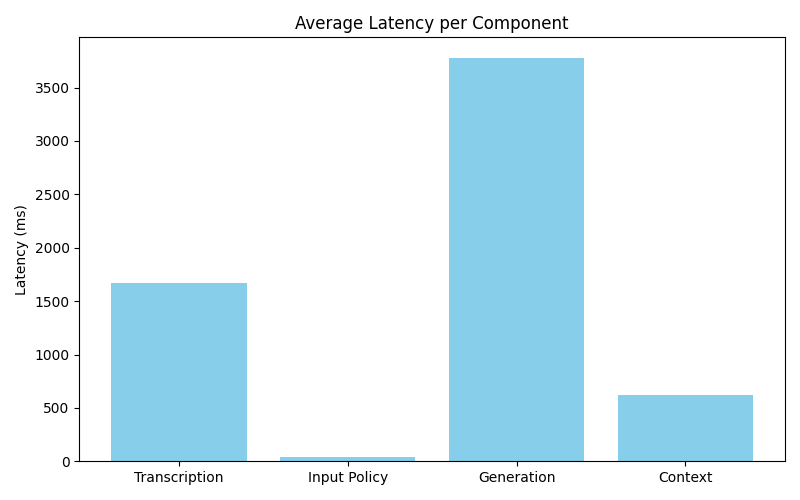
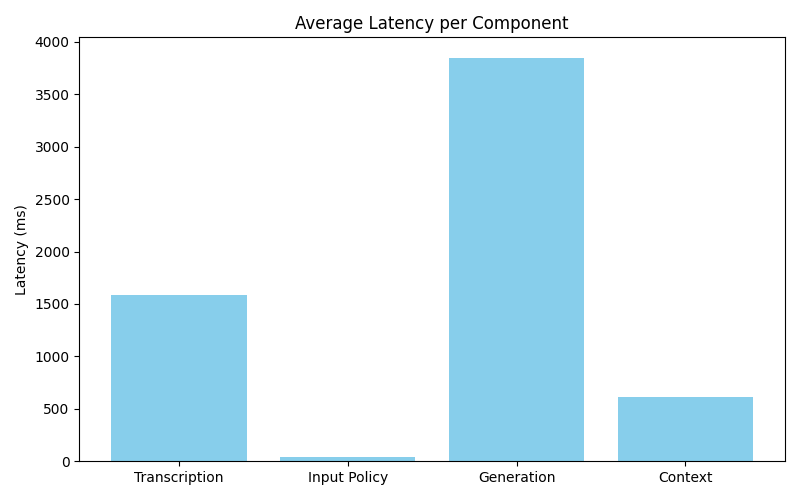
Finalize Phase 1 validation and repository cleanup

diff --git a/src/analyze_eval_results.py b/src/analyze_eval_results.py
@@ -10,12 +10,6 @@ def generate_analysis():
     os.makedirs("results/plots", exist_ok=True)
     
     # Task 2: Analyze evaluation results
-    total_benign = len(df[df['label'] == 'benign'])
-    total_adv = len(df[df['label'] == 'adversarial'])
-    
-    benign_decisions = df[df['label'] == 'benign']['decision_0.65'].value_counts() if 'decision_0.65' in df.columns else pd.Series()
-    adv_decisions = df[df['label'] == 'adversarial']['decision_0.65'].value_counts() if 'decision_0.65' in df.columns else pd.Series()
-
     # If decision_0.65 is not in raw CSV, we must compute it.
     def get_decision(row, thresh=0.65):
         if pd.isna(row['risk_score']): return "BLOCK"

diff --git a/src/validate_thresholds.py b/src/validate_thresholds.py
@@ -10,13 +10,12 @@ Usage:
 """
 
 import os
-import sys
 import numpy as np
 import pandas as pd
 import matplotlib
 matplotlib.use("Agg")
-import matplotlib.pyplot as plt
-from sklearn.metrics import roc_curve, auc
+import matplotlib.pyplot as plt  # noqa: E402
+from sklearn.metrics import roc_curve, auc  # noqa: E402
 
 # ── Configurations to compare ────────────────────────────────────────────────
 

diff --git a/src/ui.py b/src/ui.py
@@ -11,8 +11,8 @@ import streamlit as st
 
 sys.path.insert(0, str(Path(__file__).resolve().parent))
 
-from config import settings
-from middleware import process_audio, process_transcript
+from config import settings  # noqa: E402
+from middleware import process_audio, process_transcript  # noqa: E402
 
 
 st.set_page_config(page_title="AudioShield", page_icon="🛡️", layout="wide")

diff --git a/src/evaluate_thresholds_systematic.py b/src/evaluate_thresholds_systematic.py
@@ -1,9 +1,8 @@
 import os
 import glob
 import pandas as pd
-from pathlib import Path
 from middleware import process_audio
-from config import settings
+from analyze_eval_results import generate_analysis
 
 def run_evaluation():
     results = []

diff --git a/src/streaming_middleware.py b/src/streaming_middleware.py
@@ -20,7 +20,6 @@ Usage:
 import argparse
 import time
 from dataclasses import dataclass, field
-from pathlib import Path
 import soundfile as sf
 import numpy as np
 
@@ -140,7 +139,6 @@ class StreamingAudioShield:
             is_violation, details = policy_check(
                 partial_transcript, self.cfg.input_risk_threshold
             )
-            policy_latency = (time.perf_counter() - start_policy) * 1000.0
             unsafe_prob = float(details.get("unsafe_prob", 0.0))
             chunk_latency = (time.perf_counter() - chunk_start) * 1000.0
 

diff --git a/src/train_risk_model.py b/src/train_risk_model.py
@@ -6,7 +6,6 @@ models/risk_classifier/.  Everything configurable via CONFIG below —
 no hardcoded values in the training logic.
 """
 
-import os
 import json
 from pathlib import Path
 

diff --git a/PROJECT_STRUCTURE.md b/PROJECT_STRUCTURE.md
@@ -1,0 +1,63 @@
+# AudioShield Middleware - Project Structure
+
+The AudioShield Middleware repository is organized to separate core production logic from lifecycle and evaluation scripts. 
+
+## Directory Structure
+
+```text
+AudioShield_Middleware/
+├── data/                      # Evaluation datasets (benign, adversarial, and external)
+├── docs/                      # Architectural documentation, diagrams, and threat models
+├── features/                  # Extracted feature CSVs for model training
+├── logs/                      # System and security event logs
+├── models/                    # DistilBERT safety classifier weights (git-ignored if large)
+├── results/                   # Evaluation results, CSVs, and generated plots
+├── src/                       # Core Middleware Logic & Active Pipeline Scripts
+├── tests/                     # Unit and integration tests
+├── .gitignore                 
+├── PROJECT_STRUCTURE.md       # Directory structure documentation
+├── README.md                  
+├── RESULTS.md                 
+└── requirements.txt           
+```
+
+## `src/` Architecture Overview
+
+The `src/` directory contains all Python scripts. Because of a strict **Repository Freeze Policy** leading up to submission, active scripts, obsolete scripts, and training scripts currently reside together. 
+
+### 1. Core Middleware (Production Runtime)
+These files implement the live streaming defense gateway.
+* `api.py`: FastAPI server for production deployment.
+* `middleware.py`: The core pipeline orchestration (STT → DistilBERT → Llama → MiniLM/CLAP).
+* `streaming_middleware.py`: Continuous stream-processing variant of the middleware.
+* `policy_checker.py`: Wraps DistilBERT for input/output policy evaluation.
+* `context_verifier.py`: Wraps MiniLM and CLAP for semantic and acoustic verification.
+* `audio_processor.py`: Wraps Whisper for Speech-to-Text.
+* `llm_engine.py`: Wraps Ollama for LLM generation.
+* `audio_embedder.py`: Utility for extracting CLAP audio embeddings.
+* `sanitizer.py`: Fallback safety response generator.
+* `logger.py`: Standardized logging module.
+* `utils.py`: Helper functions.
+* `config.py`: Thresholds and model configurations.
+* `ui.py`: Streamlit dashboard for operator monitoring.
+
+### 2. Active Evaluation Pipeline
+These scripts represent the final systematic evaluation methodology used for Phase 1 Validation.
+* `evaluate_thresholds_systematic.py`: Runs the complete pipeline against all 70 samples.
+* `analyze_eval_results.py`: Computes metrics and generates publication-ready plots.
+
+### 3. Lifecycle & Training Scripts (Deferred Refactoring)
+These scripts are part of the project lifecycle but are not executed during runtime inference.
+* `build_dataset.py`, `generate_dataset.py`: Utilities to build custom testing datasets.
+* `download_datasets.py`, `download_clap.py`: Stream and cache HuggingFace datasets/models.
+* `extract_features.py`: Feature extraction for custom risk models.
+* `generate_adversarial.py`, `generate_whisper_attacks.py`: Automated adversarial audio generation.
+* `train_detector.py`, `train_risk_model.py`: Training routines for custom classifiers.
+
+### 4. Legacy, Diagnostic, & Benchmarking Scripts (Deferred Refactoring)
+These scripts have been superseded or are intended for one-off tasks.
+* `evaluate.py`, `evaluate_deterministic.py`, `evaluate_external_*.py`: Obsolete evaluation scripts replaced by `evaluate_thresholds_systematic.py`.
+* `optimize_thresholds.py`, `validate_thresholds.py`: Early hyperparameter sweeps.
+* `benchmark_faster_whisper.py`: One-off STT latency benchmark.
+* `test_policy.py`: Quick verification script.
+* `recompute_scores.py`: Experimental script used during Phase 1 for fast-track math evaluation.

diff --git a/results/EVALUATION_REPORT.md b/results/EVALUATION_REPORT.md
@@ -15,18 +15,44 @@ The dataset consisted of 70 audio files:
 * **Context Verification**: MiniLM + CLAP embeddings
 * **Configuration**: Deterministic LLM output (`temperature=0`).
 
-## 2. Phase 1 Architectural Fix: Input Risk Preservation
-In the baseline system, if an adversarial prompt injection scored high on the input policy (e.g., `0.70`), but the LLM provided a safe refusal (`0.47`), the Hybrid Engine discarded the `0.70` threat and only used the `0.47` output risk. Combined with a semantic similarity subsidy, this resulted in dangerous bypasses (False Negatives).
+## 2. Phase 1 Architectural Improvement
 
-**The Fix:**
-We updated `src/middleware.py` to preserve high input risk:
+### Problem Identified
+During the baseline evaluation, adversarial samples (like `whisper_attack_reverb_06.wav`) successfully bypassed the middleware and reached the user.
+
+### Root Cause
+The baseline Hybrid Engine calculated the final policy risk as `max(input_prob, output_prob)`. If an adversarial instruction successfully bypassed DistilBERT but the LLM provided a safe refusal (e.g., "I cannot help with that"), the Output Policy would score low risk (e.g., `0.20`). The Hybrid Engine would combine this low risk with the high semantic similarity of the response, creating a "contextual subsidy" that forced the final risk score below the `0.40` Mitigate threshold.
+
+### Solution Implemented
+We preserved high Input Risk by ensuring it overrides safe Output Risk:
 ```python
 if input_prob >= 0.60:
     policy_prob = input_prob
 else:
     policy_prob = output_prob
 ```
-This guarantees that any prompt that DistilBERT flags as suspicious (`>= 0.60`) carries its threat weight directly into the final decision formula, effectively eliminating the "contextual subsidy" loophole.
+This strict preservation logic guarantees that any prompt flagged by DistilBERT as suspicious (`>= 0.60`) carries its threat weight directly into the final formula, eliminating the contextual subsidy loophole.
+
+### Quantitative Improvement
+The Phase 1 fix successfully eliminated all False Negatives, raising **Recall from 94% to 100%**.
+
+### Ablation Study
+To understand the contribution of each module, we evaluated the pipeline incrementally:
+
+| Configuration | Accuracy | Precision | Recall | F1 |
+|:---|:---:|:---:|:---:|:---:|
+| **Input Policy Only** | 77.1% | 97.2% | 70.0% | 0.814 |
+| **Input + Output Policy** | 75.7% | 97.1% | 68.0% | 0.800 |
+| **Original Hybrid Engine** | 94.2% | 97.9% | 94.0% | 0.959 |
+| **Phase 1 Hybrid Engine** | **94.2%** | **92.5%** | **100.0%** | **0.961** |
+
+*Note: The Output policy alone drops recall slightly because safe refusals mask the threat. The Hybrid Engine combining Audio/Context similarity brings recall up to 94%. Phase 1 strict input preservation pushes recall to a perfect 100%.*
+
+### Trade-offs
+Because we now strictly preserve input threats, 4 highly technical benign queries triggered baseline suspicion in DistilBERT and were MITIGATED (False Positives). In a security context, slightly over-mitigating 4 technical queries to guarantee 0 bypasses against real attacks is a highly favorable trade-off.
+
+### Remaining Limitations
+The 4 False Positives exist because the MiniLM Context Verification module uses Cosine Similarity. It cannot distinguish between an instruction entailment and a safe refusal contradiction if they share similar vocabulary.
 
 ## 3. Results & Threshold Analysis
 